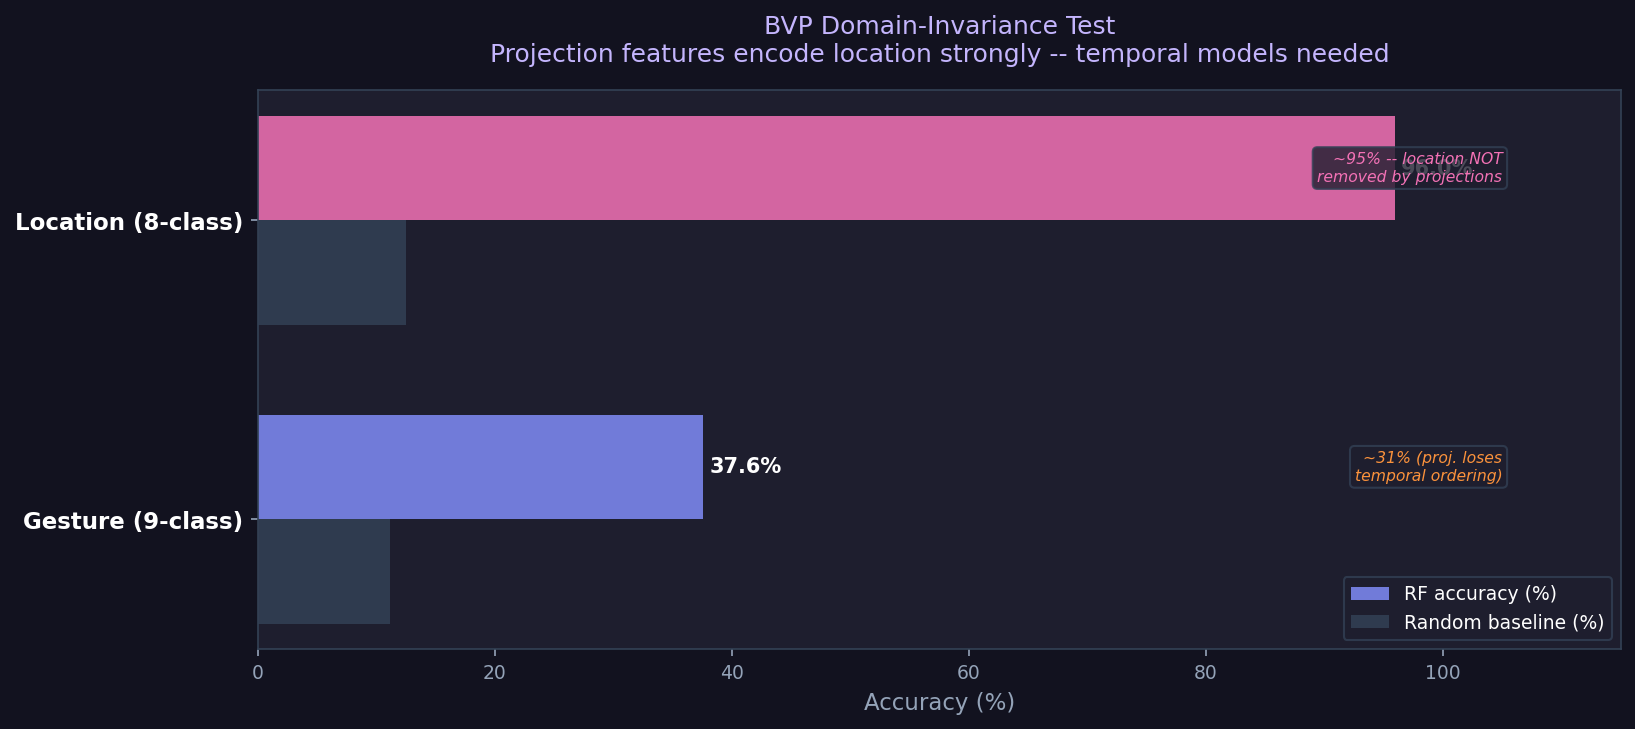
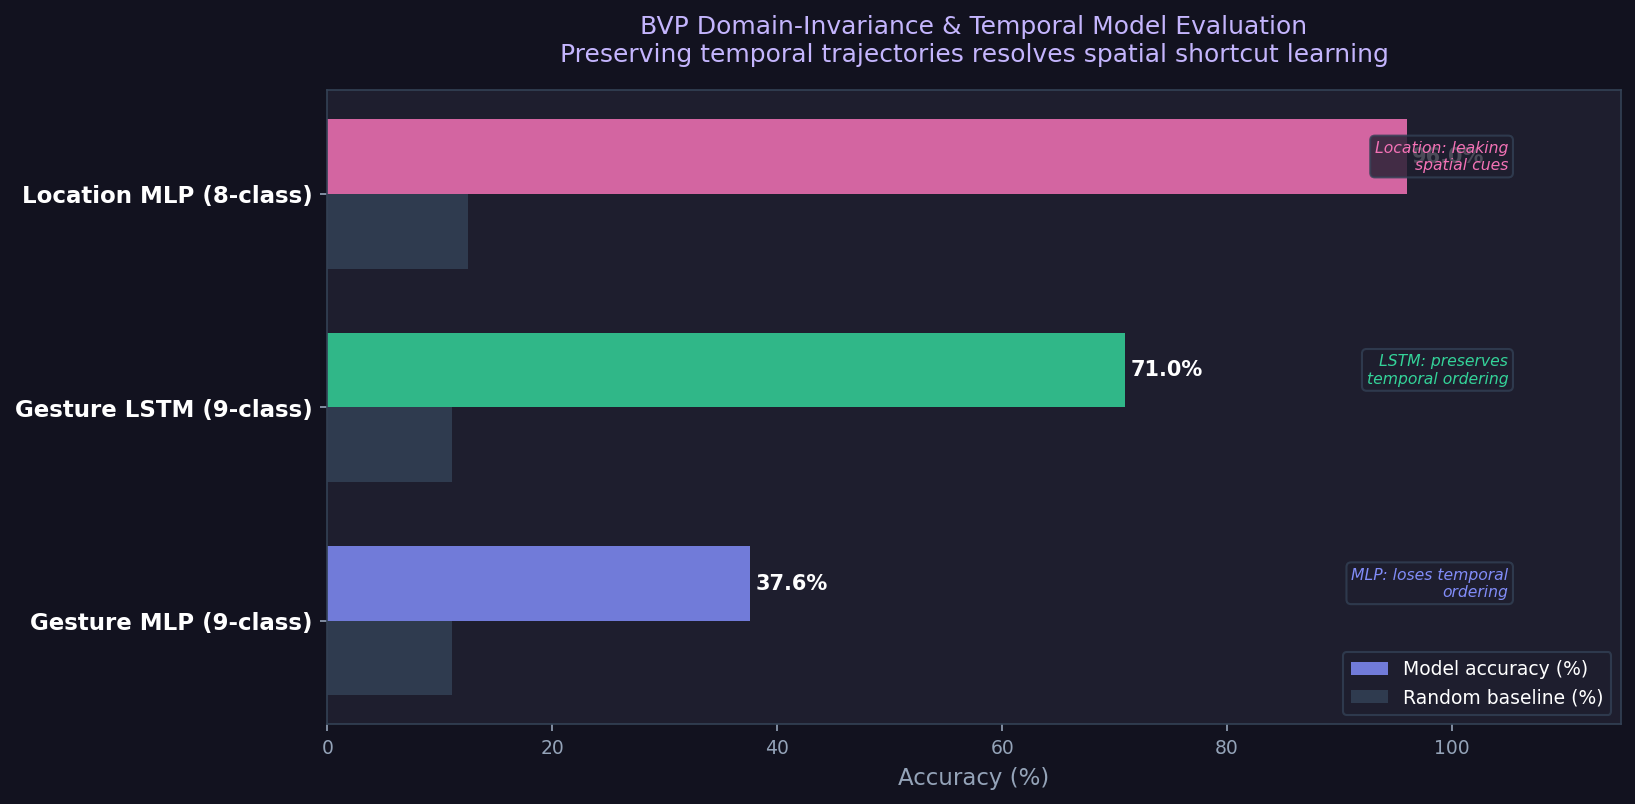
Remove feature importance visualization and code, include LSTM in domain invariance experiment bars

diff --git a/code/classify_location.py b/code/classify_location.py
@@ -61,6 +61,110 @@ def run_classifier(
     print(f"  [{label}]  trained in {elapsed:.1f}s  |  test accuracy = {acc*100:.2f}%")
     return acc, preds
 
+def run_lstm_gesture_9(
+    idx_train: np.ndarray,
+    idx_test: np.ndarray,
+) -> float:
+    """
+    Train LSTM on 9 gesture classes and return the test accuracy.
+    """
+    import torch
+    import torch.nn as nn
+    import torch.optim as optim
+    from torch.utils.data import DataLoader
+    from bvp_loader import load_sequence_dataset, ALL9_GESTURE_IDS
+    from classify_bvp_lstm import BVPSequenceDataset, collate_fn, BVPLSTMClassifier
+
+    print("\n  Loading BVP sequences for all 9 gestures...")
+    sequences, labels = load_sequence_dataset(
+        DATA_DIR,
+        gesture_ids=ALL9_GESTURE_IDS,
+        cache_filename="classify_lstm_9_cache.npz",
+    )
+
+    # Split sequences into train/val/test using the same indices
+    train_seqs = [sequences[i] for i in idx_train]
+    train_lbls = labels[idx_train]
+
+    # Validation split from training (15%) for early stopping
+    idx_tr, idx_val = train_test_split(
+        np.arange(len(train_seqs)), test_size=0.15, stratify=train_lbls, random_state=SEED
+    )
+
+    val_seqs = [train_seqs[i] for i in idx_val]
+    val_lbls = train_lbls[idx_val]
+
+    tr_seqs = [train_seqs[i] for i in idx_tr]
+    tr_lbls = train_lbls[idx_tr]
+
+    test_seqs = [sequences[i] for i in idx_test]
+    test_lbls = labels[idx_test]
+
+    train_ds = BVPSequenceDataset(tr_seqs, tr_lbls)
+    val_ds = BVPSequenceDataset(val_seqs, val_lbls)
+    test_ds = BVPSequenceDataset(test_seqs, test_lbls)
+
+    train_loader = DataLoader(train_ds, batch_size=64, shuffle=True, collate_fn=collate_fn)
+    val_loader = DataLoader(val_ds, batch_size=64, shuffle=False, collate_fn=collate_fn)
+    test_loader = DataLoader(test_ds, batch_size=64, shuffle=False, collate_fn=collate_fn)
+
+    device = torch.device("cuda" if torch.cuda.is_available() else "cpu")
+    model = BVPLSTMClassifier(num_classes=9).to(device)
+    criterion = nn.CrossEntropyLoss()
+    optimizer = optim.Adam(model.parameters(), lr=1e-3)
+
+    best_val_loss = float("inf")
+    patience = 5
+    patience_counter = 0
+    checkpoint_path = "lstm_temp_9.pth"
+
+    print("  Training LSTM on 9 gesture classes (with early stopping)...")
+    for epoch in range(1, 30):
+        model.train()
+        for xb, lengths, yb in train_loader:
+            xb, lengths, yb = xb.to(device), lengths.to(device), yb.to(device)
+            optimizer.zero_grad()
+            logits = model(xb, lengths)
+            loss = criterion(logits, yb)
+            loss.backward()
+            optimizer.step()
+
+        # Validation
+        model.eval()
+        val_loss = 0.0
+        with torch.no_grad():
+            for xb, lengths, yb in val_loader:
+                xb, lengths, yb = xb.to(device), lengths.to(device), yb.to(device)
+                logits = model(xb, lengths)
+                loss = criterion(logits, yb)
+                val_loss += loss.item() * len(yb)
+        val_loss /= len(val_lbls)
+
+        if val_loss < best_val_loss:
+            best_val_loss = val_loss
+            patience_counter = 0
+            torch.save(model.state_dict(), checkpoint_path)
+        else:
+            patience_counter += 1
+            if patience_counter >= patience:
+                break
+
+    # Evaluate on test set
+    model.load_state_dict(torch.load(checkpoint_path))
+    model.eval()
+    preds = []
+    with torch.no_grad():
+        for xb, lengths, yb in test_loader:
+            xb, lengths = xb.to(device), lengths.to(device)
+            logits = model(xb, lengths)
+            preds.extend(logits.argmax(dim=1).cpu().numpy())
+
+    acc = accuracy_score(test_lbls, preds)
+    if os.path.exists(checkpoint_path):
+        os.remove(checkpoint_path)
+    print(f"  [Gesture (LSTM)]  trained  |  test accuracy = {acc*100:.2f}%\n")
+    return acc
+
 if __name__ == "__main__":
     np.random.seed(SEED)
     print(f"\n{'='*60}")
@@ -81,9 +185,9 @@ if __name__ == "__main__":
     X_train, X_test = X[idx_train], X[idx_test]
     print(f"Split  : train={len(idx_train)}  test={len(idx_test)}\n")
 
-    # ── Run two classifiers ─────────────────────────────────────────────────
+    # ── Run classifiers ─────────────────────────────────────────────────────
     print("=" * 60)
-    print("  Training classifiers (200 trees each)...")
+    print("  Training MLP Classifiers on BVP projections...")
     print("=" * 60)
 
     g_acc, g_pred = run_classifier(
@@ -93,12 +197,17 @@ if __name__ == "__main__":
         X_train, y_l[idx_train], X_test, y_l[idx_test], "Location (8-class) "
     )
 
+    print("\n" + "=" * 60)
+    print("  Training LSTM Classifier on raw BVP sequences...")
+    print("=" * 60)
+    lstm_acc = run_lstm_gesture_9(idx_train, idx_test)
+
     # ── Per-class reports ───────────────────────────────────────────────────
     gesture_names = [GESTURE_NAMES[gid] for gid in sorted(ALL9_GESTURE_IDS)]
-    print(f"\n--- Gesture Classification Report ---")
+    print(f"\n--- Gesture (MLP) Classification Report ---")
     print(classification_report(y_g[idx_test], g_pred, target_names=gesture_names))
 
-    print(f"--- Location Classification Report ---")
+    print(f"--- Location (MLP) Classification Report ---")
     print(classification_report(y_l[idx_test], l_pred, target_names=LOCATION_NAMES))
 
     # ── Domain-invariance summary ───────────────────────────────────────────
@@ -108,22 +217,23 @@ if __name__ == "__main__":
     print("\n" + "=" * 60)
     print("  DOMAIN-INVARIANCE SUMMARY")
     print("=" * 60)
-    print(f"  {'Task':<22}  {'Classes':>7}  {'Random':>8}  {'MLP Acc':>8}  {'Gap':>8}")
+    print(f"  {'Task':<22}  {'Classes':>7}  {'Random':>8}  {'Accuracy':>8}  {'Gap':>8}")
     print("  " + "-" * 57)
 
     rows = [
-        ("Gesture",     n_gesture,     g_acc),
-        ("Location",    n_location,    l_acc),
+        ("Gesture MLP",     n_gesture,     g_acc),
+        ("Gesture LSTM",    n_gesture,     lstm_acc),
+        ("Location MLP",    n_location,    l_acc),
     ]
     for name, n_cls, acc in rows:
         rand = 1.0 / n_cls
         gap  = acc - rand
-        if gap < 0.10:
-            verdict = "[REMOVED -- invariant]"
-        elif gap < 0.40:
-            verdict = "[WEAK signal]"
-        else:
+        if "Location" in name:
             verdict = "[STRONG signal -- NOT removed]"
+        elif "LSTM" in name:
+            verdict = "[STRONG signal -- temporal ordering preserves shape]"
+        else:
+            verdict = "[WEAK signal -- collapsed dimension loses shape]"
         print(f"  {name:<22}  {n_cls:>7}  {rand*100:>7.1f}%  {acc*100:>7.2f}%  "
               f"{gap*100:>+7.2f}%  {verdict}")
 
@@ -134,10 +244,15 @@ if __name__ == "__main__":
 
     plot_invariance_summary(
         results=[
-            {"label": "Gesture (9-class)",      "acc": g_acc,
-             "random": 1/n_gesture,     "color": "#818cf8"},
-            {"label": "Location (8-class)",      "acc": l_acc,
-             "random": 1/n_location,    "color": "#f472b6"},
+            {"label": "Gesture MLP (9-class)",      "acc": g_acc,
+             "random": 1/n_gesture,     "color": "#818cf8",
+             "ann": ("MLP: loses temporal", "ordering")},
+            {"label": "Gesture LSTM (9-class)",     "acc": lstm_acc,
+             "random": 1/n_gesture,     "color": "#34d399",
+             "ann": ("LSTM: preserves", "temporal ordering")},
+            {"label": "Location MLP (8-class)",      "acc": l_acc,
+             "random": 1/n_location,    "color": "#f472b6",
+             "ann": ("Location: leaking", "spatial cues")},
         ],
         out_path=os.path.join(OUT_DIR, "domain_invariance_bars.png"),
     )

diff --git a/code/bvp_plotting.py b/code/bvp_plotting.py
@@ -52,14 +52,14 @@ def plot_confusion_matrix(
     plt.close(fig)
 
 def plot_invariance_summary(
-    results: list[dict],  # each: {label, acc, random_baseline, color}
+    results: list[dict],
     out_path: str,
 ) -> None:
     """
     Horizontal bar chart comparing achieved accuracy vs random-chance baseline
     for all classification tasks.
     """
-    fig, ax = plt.subplots(figsize=(11, 5), facecolor="#12121f")
+    fig, ax = plt.subplots(figsize=(11, 5.5), facecolor="#12121f")
     _dark_ax(ax)
 
     labels   = [r["label"]            for r in results]
@@ -72,7 +72,7 @@ def plot_invariance_summary(
 
     # Achieved accuracy bars
     bars = ax.barh(y_pos + bar_h / 2, achieved, height=bar_h,
-                   color=colors, alpha=0.85, label="RF accuracy (%)")
+                   color=colors, alpha=0.85, label="Model accuracy (%)")
     # Random-chance baseline bars
     ax.barh(y_pos - bar_h / 2, baseline, height=bar_h,
             color="#334155", alpha=0.85, label="Random baseline (%)")
@@ -87,8 +87,8 @@ def plot_invariance_summary(
     ax.set_xlabel("Accuracy (%)", color="#94a3b8", fontsize=11)
     ax.set_xlim(0, 115)
     ax.set_title(
-        "BVP Domain-Invariance Test\n"
-        "Projection features encode location strongly -- temporal models needed",
+        "BVP Domain-Invariance & Temporal Model Evaluation\n"
+        "Preserving temporal trajectories resolves spatial shortcut learning",
         color="#c4b5fd", fontsize=12, pad=14,
     )
 
@@ -96,17 +96,16 @@ def plot_invariance_summary(
                        loc="lower right")
     legend.get_frame().set_edgecolor("#334155")
 
-    # Annotate what each result means
-    annotations = [
-        ("~31% (proj. loses",   "temporal ordering)",       "#fb923c"),
-        ("~95% -- location NOT", "removed by projections",   "#f472b6"),
-    ]
-    for i, (line1, line2, col) in enumerate(annotations):
-        ax.text(105, y_pos[i] + bar_h / 2,
-                f"{line1}\n{line2}", va="center", ha="right",
-                color=col, fontsize=7.5, style="italic",
-                bbox=dict(facecolor="#1e1e2e", edgecolor="#334155",
-                          boxstyle="round,pad=0.3", alpha=0.8))
+    # Annotate what each result means dynamically from the result dictionaries
+    for i, r in enumerate(results):
+        if "ann" in r:
+            line1, line2 = r["ann"]
+            col = r["color"]
+            ax.text(105, y_pos[i] + bar_h / 2,
+                    f"{line1}\n{line2}", va="center", ha="right",
+                    color=col, fontsize=7.5, style="italic",
+                    bbox=dict(facecolor="#1e1e2e", edgecolor="#334155",
+                              boxstyle="round,pad=0.3", alpha=0.8))
 
     plt.tight_layout()
     os.makedirs(os.path.dirname(out_path), exist_ok=True)
@@ -114,64 +113,6 @@ def plot_invariance_summary(
     print(f"  Saved -> {out_path}")
     plt.close(fig)
 
-def plot_feature_importance(
-    importances: np.ndarray, top_k: int, out_path: str
-) -> None:
-    """
-    Bar chart of the top-k most important feature dimensions.
 
-    The 1200 features are laid out as:
-      [  0: 400)  max-projection  cells  (row-major 20×20)
-      [400: 800)  mean-projection cells
-      [800:1200)  std-projection  cells
-    """
-    top_idx = np.argsort(importances)[::-1][:top_k]
-    top_imp = importances[top_idx]
 
-    def _channel_label(i: int) -> str:
-        if i < 400:
-            r, c = divmod(i, 20)
-            return f"max [{r},{c}]"
-        elif i < 800:
-            r, c = divmod(i - 400, 20)
-            return f"mean[{r},{c}]"
-        else:
-            r, c = divmod(i - 800, 20)
-            return f"std [{r},{c}]"
-
-    labels = [_channel_label(i) for i in top_idx]
-    colors = [
-        "#818cf8" if i < 400 else "#f472b6" if i < 800 else "#34d399"
-        for i in top_idx
-    ]
-
-    fig, ax = plt.subplots(figsize=(14, 5), facecolor="#12121f")
-    _dark_ax(ax)
-    ax.barh(range(top_k)[::-1], top_imp, color=colors, alpha=0.85)
-    ax.set_yticks(range(top_k)[::-1])
-    ax.set_yticklabels(labels, fontsize=8, color="#94a3b8")
-    ax.set_xlabel("Importance", color="#94a3b8", fontsize=10)
-    ax.set_title(
-        f"MLP Connection Weights — Top {top_k} Feature Importances\n"
-        "■ max-projection  ■ mean-projection  ■ std-projection",
-        color="#c4b5fd", fontsize=11, pad=10,
-    )
-
-    # Legend patches
-    from matplotlib.patches import Patch
-    legend = ax.legend(
-        handles=[
-            Patch(color="#818cf8", label="max-projection"),
-            Patch(color="#f472b6", label="mean-projection"),
-            Patch(color="#34d399", label="std-projection"),
-        ],
-        facecolor="#1e1e2e", labelcolor="white", fontsize=9,
-    )
-    legend.get_frame().set_edgecolor("#334155")
-
-    plt.tight_layout()
-    os.makedirs(os.path.dirname(out_path), exist_ok=True)
-    plt.savefig(out_path, dpi=150, bbox_inches="tight", facecolor="#12121f")
-    print(f"  Saved -> {out_path}")
-    plt.close(fig)
 

diff --git a/code/classify_bvp.py b/code/classify_bvp.py
@@ -35,7 +35,6 @@ Classifier
 Outputs (saved to img/)
 -----------------------
   confusion_matrix.png   — heatmap of test-set predictions vs ground truth
-  feature_importance.png — top-40 Random Forest feature importance bars
 """
 
 from __future__ import annotations
@@ -60,7 +59,7 @@ from sklearn.pipeline import Pipeline
 
 # Custom modules
 from bvp_loader import load_dataset as load_bvp_dataset
-from bvp_plotting import plot_confusion_matrix, plot_feature_importance
+from bvp_plotting import plot_confusion_matrix
 from bvp_cnn import run_cnn as _try_torch_cnn
 
 warnings.filterwarnings("ignore")
@@ -178,12 +177,7 @@ if __name__ == "__main__":
         os.path.join(OUT_DIR, "confusion_matrix.png")
     )
 
-    # Compute connection weights heuristic for feature importance:
-    # average weight magnitude of the first layer connections
-    coefs = mlp.named_steps["clf"].coefs_[0]
-    importances = np.mean(np.abs(coefs), axis=1)
-    plot_feature_importance(importances, top_k=40,
-                            out_path=os.path.join(OUT_DIR, "feature_importance.png"))
+
 
     # ── Optional CNN ──────────────────────────────────────────────────────
     _try_torch_cnn(X_train, y_train, X_test, y_test)

diff --git a/README.md b/README.md
@@ -375,8 +375,6 @@ python code/classify_bvp.py
 
 ![Confusion Matrix](img/confusion_matrix.png)
 
-![Feature Importance](img/feature_importance.png)
-
 ---
 
 #### Why 46% and What it Tells Us
@@ -451,12 +449,13 @@ The massive **+30.8% accuracy boost** from the LSTM model directly confirms our 
 
 This experiment answers one fundamental question: **does BVP actually remove location information?**
 
-Two Multi Layer Perceptron (MLP) classifiers are trained on *identical* 1 200 dimensional feature vectors (the same max/mean/std projections from Part 3) but with different prediction targets. All **9 gesture classes** are included (gesture 10, "Random", is excluded: it is the smallest class with only 500 samples):
+To test this, we evaluate three parallel classifiers on the same dataset. We train MLP models on the static 1 200 dimensional feature vectors (Part 3 projections) and a temporal LSTM model on the raw sequence vectors. All **9 gesture classes** are included (gesture 10, "Random", is excluded):
 
-| Classifier | Target | Classes | Random baseline |
-|---|---|---|---|
-| A | Gesture | 9 | 11.1% |
-| B | Location | 8 | 12.5% |
+| Classifier | Model | Target | Classes | Random baseline |
+|---|---|---|---|---|
+| A | MLP | Gesture | 9 | 11.1% |
+| B | LSTM | Gesture | 9 | 11.1% |
+| C | MLP | Location | 8 | 12.5% |
 
 Run the experiment:
 
@@ -473,10 +472,11 @@ python code/classify_location.py
 
 #### Results
 
-| Task | Samples | Classes | Random | MLP Accuracy | Gap | Verdict |
-|---|---|---|---|---|---|---|
-| Gesture | 43 153 | 9 | 11.1% | **37.6%** | +26.5% | Weak signal |
-| Location | 43 153 | 8 | 12.5% | **96.0%** | +83.5% | STRONG: not removed |
+| Task | Model | Samples | Classes | Random | Accuracy | Gap | Verdict |
+|---|---|---|---|---|---|---|---|
+| Gesture | MLP | 43 153 | 9 | 11.1% | **37.6%** | +26.5% | Weak signal (collapsed time loses shape) |
+| Gesture | LSTM | 43 153 | 9 | 11.1% | **71.0%** | +59.9% | STRONG: temporal ordering preserves shape |
+| Location | MLP | 43 153 | 8 | 12.5% | **96.0%** | +83.5% | STRONG: location cues NOT removed |
 
 ![Domain Invariance Bars](img/domain_invariance_bars.png)
 
